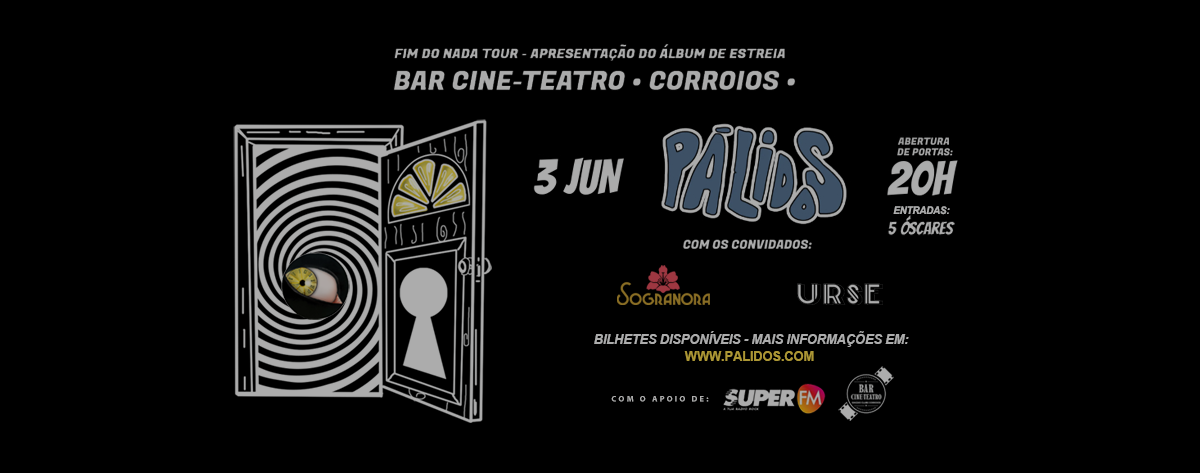
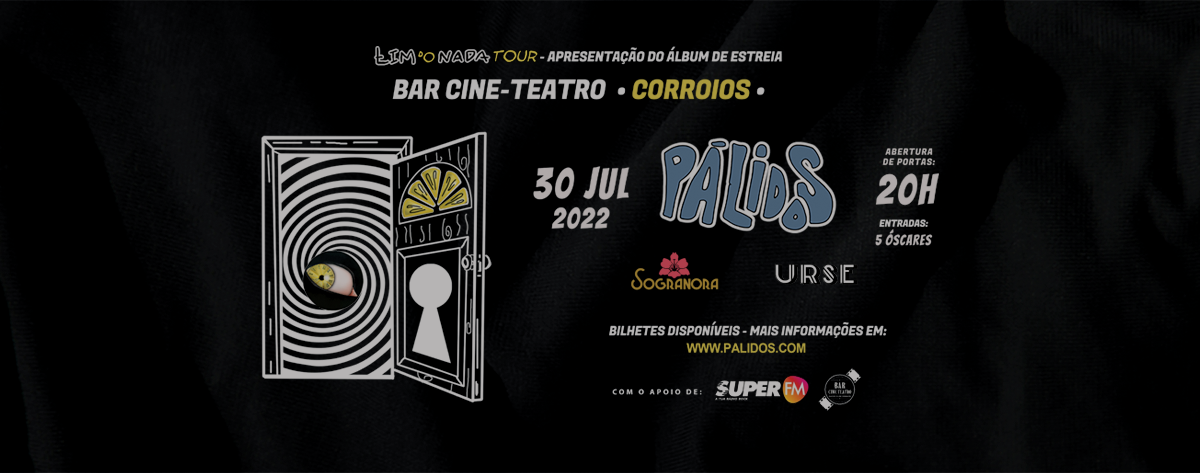
Correçoes da nova data do concerto para dia 30 de Julho

diff --git a/src/app/pages/trending/trending-details7/trending-details7.component.html b/src/app/pages/trending/trending-details7/trending-details7.component.html
@@ -10,23 +10,13 @@
                     <div class="post-content">
                   <ul class="post-meta list-inline">
                     <li class="list-inline-item">
-                        <i class="fa fa-calendar-o"></i> 6 Mai 2022
+                        <i class="fa fa-calendar-o"></i> 3 Jun 2022
                     </li>
                 </ul>
 
-                    <h3>[Atualização a 31/05/2021] COMUNICADO DA BANDA:</h3>
-                    <p>"Infelizmente, devido a casos de COVID na banda, não vai ser permitido realizarmos o nosso espectáculo a dia 3 de Junho.</p>
-                    
-                    <p>Lamentamos e estamos desolados por não podermos fazer esta festa com vocês, mas... só por enquanto!
-                    Vamos remarcar e prometemos anunciar outras datas para breve. As nossas desculpas e esperamos ver-vos em breve!</p>
-
-                    <p>Todos os bilhetes comprados, foram reembolsados."</p>
-
-                    <p>- André Guerreiro, Pálidos</p>
-                    
                     <h3>INÍCIO DA FIM DO NADA TOUR - APRESENTAÇÃO DO ÁLBUM DE ESTREIA</h3>
                     
-                    <p>Após longos tempos de pandemia e, com isso, poucos concertos, os Pálidos estão de volta em força para compensar o tempo perdido.</p>
+                    <p>Após longos tempos de pandemia e, após um adiamento em Corroios com data inicial marcada para o dia 3 de Junho, os Pálidos estão de volta em força para compensar o tempo perdido.</p>
                     
                     <p>A banda, tendo uma ligação especial a Corroios, começa assim a sua tourné, com o primeiro concerto a ser realizado no Bar Cine-Teatro, no palco Hollywood.
                         A primeira parte do espectáculo fica a cargo dos URSE, da Caparica, seguindo-se os seixalenses, Sogranora.</p>
@@ -39,14 +29,14 @@
                     <p style="margin-bottom:0"><b>MB WAY:</b> 969385133</p>
                     <p><b>NIB:</b> 0036 0172 9910 0047 932 26</p>
                     
-                    <p>Após a transferência, enviar comprovativo, com "3 de Junho + Pálidos + NOME EM QUE FICAM RESERVADOS OS BILHETES" para 969385133 por SMS ou WhatsApp ou para o mail palidosbanda@gmail.com</p>
+                    <p>Após a transferência, enviar comprovativo, com "NOME EM QUE FICAM RESERVADOS OS BILHETES" para 969385133 por SMS ou WhatsApp ou para o mail palidosbanda@gmail.com</p>
                     
                     <p>Na hora do espetáculo, ingresso sujeito à lotação disponível.</p>
 
-                    <p class="lead">Para consultarem o evento oficial no Facebook, sigam o link em baixo</p>
+                    <p class="lead">Para consultarem o evento oficial no Facebook, sigam o link em baixo:</p>
         <html>
             <body>
-                <a href="https://fb.me/e/4QMUOSgix" target="_blank">Pálidos + Sogranora + URSE em Corroios no Bar Cine-Teatro</a> 
+                <a href="https://fb.me/e/1O2gZGQxj" target="_blank">Pálidos + Sogranora + URSE em Corroios no Bar Cine-Teatro</a> 
             </body>
         </html>
 

diff --git a/src/app/pages/trending/trending.component.html b/src/app/pages/trending/trending.component.html
@@ -17,7 +17,7 @@
          <div  style="display: flex;" class="col-lg-4 col-md-6 mt-4 pt-2">
             <div class="blog-post rounded border">
                 <div class="blog-img d-block overflow-hidden position-relative">
-                    <img src="assets/news/corroios-horizontal.png" class="img-fluid rounded-top" alt="">
+                    <img src="assets/home/Corroios22.png" class="img-fluid rounded-top" alt="">
                     <div class="overlay rounded-top bg-dark"></div>
                     <div class="post-meta">
                         <a href="news/fim-do-nada-tour-corroios" class="text-light d-block text-right like"></a>
@@ -25,9 +25,9 @@
                     </div>
                 </div>
                 <div class="content p-3">
-                    <small class="text-muted p float-right"> 06 Mai, 22</small>
-                    <h4 class="mt-2"><a href="news/fim-do-nada-tour-corroios" class="text-dark title"><b>INÍCIO DA FIM DO NADA TOUR - APRESENTAÇÃO DO ÁLBUM DE ESTREIA [ADIADO COM DATA A DEFINIR]</b></a></h4>
-                    <p class="text-muted mt-2"> A primeira de algumas datas que os Pálidos preparam, passa por Corroios, dia 3 de Junho, com os convidados <em>Sogranora</em> e <em>URSE</em>.</p>
+                    <small class="text-muted p float-right"> 3 Mai, 22</small>
+                    <h4 class="mt-2"><a href="news/fim-do-nada-tour-corroios" class="text-dark title"><b>INÍCIO DA FIM DO NADA TOUR - APRESENTAÇÃO DO ÁLBUM DE ESTREIA</b></a></h4>
+                    <p class="text-muted mt-2"> Adiamento do concerto de Corroios, passa para dia 30 de Julho, com os convidados <em>Sogranora</em> e <em>URSE</em>.</p>
                     
                 </div>
             </div><!--end blog post-->

diff --git a/src/app/pages/home/home.component.html b/src/app/pages/home/home.component.html
@@ -13,7 +13,7 @@
       <a href="https://palidosbanda.bandcamp.com/merch" target="_blank" routerLinkActive="active">
         <img class="d-block w-100" src="assets/home/tshirts.png" alt="First slide">
           <div class="carousel-caption">
-            <h5 class="mt-2"><a href="https://palidosbanda.bandcamp.com/merch" target="_blank" class="text-white title"><b>NOVO MERCHANDISE JÁ EM PRÉ-VENDA</b></a></h5>
+            <h5 class="mt-2"><a href="https://palidosbanda.bandcamp.com/merch" target="_blank" class="text-white title" ><b>NOVO MERCHANDISE JÁ À VENDA</b></a></h5>
             <p class="text-light mt-2">  </p>
           </div>
       </a>
@@ -23,7 +23,7 @@
       <a routerLink="news/fim-do-nada-tour-corroios" routerLinkActive="active">
         <img class="d-block w-100" src="assets/home/Corroios22.png" alt="Second slide">
           <div class="carousel-caption">
-            <h5 class="mt-2"><a href="news/fim-do-nada-tour-corroios" class="text-white title"><b>FIM DO NADA TOUR: CONCERTO EM CORROIOS, DIA 3 DE JUNHO [ADIADO COM DATA A DEFINIR] </b></a></h5>
+            <h5 class="mt-2"><a href="news/fim-do-nada-tour-corroios" class="text-white title"><b>FIM DO NADA TOUR: CONCERTO EM CORROIOS, REAGENDADO PARA DIA 30 DE JULHO </b></a></h5>
             <p class="text-light mt-2">  </p>
           </div>
       </a>

diff --git a/src/app/pages/concerts/concerts.component.html b/src/app/pages/concerts/concerts.component.html
@@ -34,7 +34,7 @@
           
           <tbody>
               <tr data-toggle="collapse" data-target="#demo20">
-                <td>03 Junho <b>[Adiado - Data por anunciar]</b></td>
+                <td>30 Julho</td>
                 <td>Cine-Teatro de Corroios</td>
                 <td>Corroios, Portugal</td>
                 <td style="vertical-align: middle;">	<a class="btn btn-primary btn-sm active" href="news/fim-do-nada-tour-corroios" data-toggle="button" aria-pressed="false" autocomplete="off">Bilhetes</a></td>
